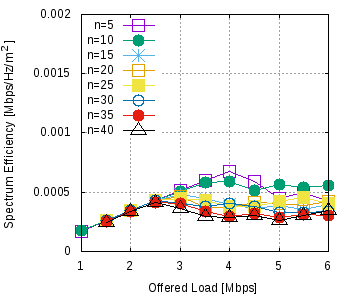
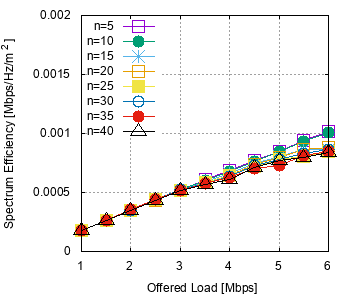
spatial-reuse: Update study1 results

diff --git a/src/wifi-he/doc/source/wifi-he-results.rst b/src/wifi-he/doc/source/wifi-he-results.rst
@@ -735,7 +735,7 @@ The ECDF of node contributions to downlink throughput for the offered load of
 
 .. _study1-05-ecdf:
 
-.. figure:: figures/study1-1732-10-05-2-180.0-20.0-ap1-ecdf.*
+.. figure:: figures/study1-3464-10-05-2-180.0-20.0-ap1-ecdf.*
    :align: center 
 
    ECDF of node contributions to downlink throughput for n=5 nodes and offered load of 2 Mbps.
@@ -748,7 +748,7 @@ the network is not saturated, and packet delivery occurs with high success rates
 
 .. _study1-20-ecdf:
 
-.. figure:: figures/study1-1732-10-20-2-180.0-20.0-ap1-ecdf.*
+.. figure:: figures/study1-3464-10-20-2-180.0-20.0-ap1-ecdf.*
    :align: center 
 
    ECDF of node contributions to downlink throughput for n=20 nodes and offered load of 2 Mbps.
@@ -821,7 +821,7 @@ shown below, for the scenario of n=20 nodes, and offered load of 2 Mbps.
 
 .. _study1-20-ap1-signal:
 
-.. figure:: figures/spatial-reuse-rx-sniff-study1-1732-10-20-2-180.0-20.0-ap1-signal.*
+.. figure:: figures/spatial-reuse-rx-sniff-study1-3464-10-20-2-180.0-20.0-ap1-signal.*
    :align: center 
 
    ECDF of the signal level at the AP for the BSS of interest in the center of the Study 1 parametric study, with n=20 STAs per BSS.
@@ -833,7 +833,7 @@ shown below, for the scenario of n=20 nodes, and offered load of 2 Mbps.
 
 .. _study1-20-ap1-noise:
 
-.. figure:: figures/spatial-reuse-rx-sniff-study1-1732-10-20-2-180.0-20.0-ap1-noise.*
+.. figure:: figures/spatial-reuse-rx-sniff-study1-3464-10-20-2-180.0-20.0-ap1-noise.*
    :align: center 
 
    ECDF of the noise level at the AP for the BSS of interest in the center of the Study 1 parametric study, with n=20 STAs per BSS..
